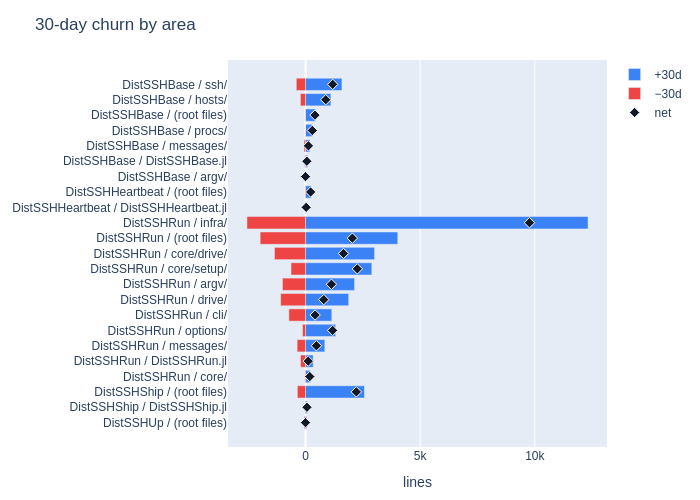
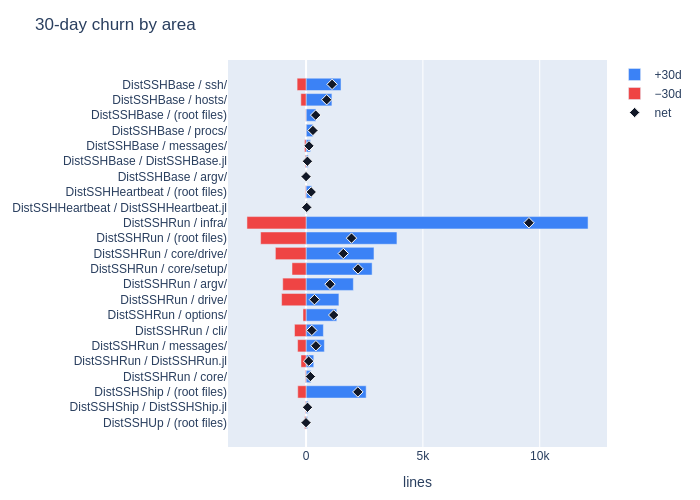
Render source churn.

diff --git a/churn/charts/churn-summary.html b/churn/charts/churn-summary.html
@@ -9,7 +9,7 @@
   <body style="margin:0;font-family:system-ui,sans-serif;">
   <div id="churn-summary" style="width:100%;min-height:90vh;"></div>
   <script>
-  const data = [{"type":"bar","name":"+30d","orientation":"h","y":["DistSSHBase / ssh/","DistSSHBase / hosts/","DistSSHBase / (root files)","DistSSHBase / procs/","DistSSHBase / messages/","DistSSHBase / DistSSHBase.jl","DistSSHBase / argv/","DistSSHHeartbeat / (root files)","DistSSHHeartbeat / DistSSHHeartbeat.jl","DistSSHRun / infra/","DistSSHRun / (root files)","DistSSHRun / core/drive/","DistSSHRun / core/setup/","DistSSHRun / argv/","DistSSHRun / drive/","DistSSHRun / cli/","DistSSHRun / options/","DistSSHRun / messages/","DistSSHRun / DistSSHRun.jl","DistSSHRun / core/","DistSSHShip / (root files)","DistSSHShip / DistSSHShip.jl","DistSSHUp / (root files)"],"marker":{"color":"#3b82f6"},"hovertemplate":"%{y}\u003cbr>+30d: %{x} lines\u003cextra>\u003c/extra>","x":[1588,1106,426,299,191,92,1,248,30,12322,4023,3011,2892,2138,1882,1146,1314,842,335,214,2572,89,59]},{"type":"bar","name":"−30d","orientation":"h","customdata":[403,223,14,5,65,34,1,25,2,2555,1980,1355,633,1007,1086,727,132,367,218,28,356,26,61],"y":["DistSSHBase / ssh/","DistSSHBase / hosts/","DistSSHBase / (root files)","DistSSHBase / procs/","DistSSHBase / messages/","DistSSHBase / DistSSHBase.jl","DistSSHBase / argv/","DistSSHHeartbeat / (root files)","DistSSHHeartbeat / DistSSHHeartbeat.jl","DistSSHRun / infra/","DistSSHRun / (root files)","DistSSHRun / core/drive/","DistSSHRun / core/setup/","DistSSHRun / argv/","DistSSHRun / drive/","DistSSHRun / cli/","DistSSHRun / options/","DistSSHRun / messages/","DistSSHRun / DistSSHRun.jl","DistSSHRun / core/","DistSSHShip / (root files)","DistSSHShip / DistSSHShip.jl","DistSSHUp / (root files)"],"marker":{"color":"#ef4444"},"hovertemplate":"%{y}\u003cbr>−30d: %{customdata} lines\u003cextra>\u003c/extra>","x":[-403,-223,-14,-5,-65,-34,-1,-25,-2,-2555,-1980,-1355,-633,-1007,-1086,-727,-132,-367,-218,-28,-356,-26,-61]},{"type":"scatter","name":"net","y":["DistSSHBase / ssh/","DistSSHBase / hosts/","DistSSHBase / (root files)","DistSSHBase / procs/","DistSSHBase / messages/","DistSSHBase / DistSSHBase.jl","DistSSHBase / argv/","DistSSHHeartbeat / (root files)","DistSSHHeartbeat / DistSSHHeartbeat.jl","DistSSHRun / infra/","DistSSHRun / (root files)","DistSSHRun / core/drive/","DistSSHRun / core/setup/","DistSSHRun / argv/","DistSSHRun / drive/","DistSSHRun / cli/","DistSSHRun / options/","DistSSHRun / messages/","DistSSHRun / DistSSHRun.jl","DistSSHRun / core/","DistSSHShip / (root files)","DistSSHShip / DistSSHShip.jl","DistSSHUp / (root files)"],"marker":{"line":{"width":1,"color":"#ffffff"},"size":8,"symbol":"diamond","color":"#111827"},"mode":"markers","hovertemplate":"%{y}\u003cbr>net: %{x} lines\u003cextra>\u003c/extra>","x":[1185,883,412,294,126,58,0,223,28,9767,2043,1656,2259,1131,796,419,1182,475,117,186,2216,63,-2]}];
+  const data = [{"type":"bar","name":"+30d","orientation":"h","y":["DistSSHBase / ssh/","DistSSHBase / hosts/","DistSSHBase / (root files)","DistSSHBase / procs/","DistSSHBase / messages/","DistSSHBase / DistSSHBase.jl","DistSSHBase / argv/","DistSSHHeartbeat / (root files)","DistSSHHeartbeat / DistSSHHeartbeat.jl","DistSSHRun / infra/","DistSSHRun / (root files)","DistSSHRun / core/drive/","DistSSHRun / core/setup/","DistSSHRun / argv/","DistSSHRun / drive/","DistSSHRun / options/","DistSSHRun / cli/","DistSSHRun / messages/","DistSSHRun / DistSSHRun.jl","DistSSHRun / core/","DistSSHShip / (root files)","DistSSHShip / DistSSHShip.jl","DistSSHUp / (root files)"],"marker":{"color":"#3b82f6"},"hovertemplate":"%{y}\u003cbr>+30d: %{x} lines\u003cextra>\u003c/extra>","x":[1496,1106,426,299,191,91,1,248,30,12069,3890,2907,2827,2024,1406,1314,741,783,329,214,2572,89,59]},{"type":"bar","name":"−30d","orientation":"h","customdata":[383,223,14,5,65,33,1,25,2,2530,1945,1313,602,999,1047,132,494,362,217,28,356,26,61],"y":["DistSSHBase / ssh/","DistSSHBase / hosts/","DistSSHBase / (root files)","DistSSHBase / procs/","DistSSHBase / messages/","DistSSHBase / DistSSHBase.jl","DistSSHBase / argv/","DistSSHHeartbeat / (root files)","DistSSHHeartbeat / DistSSHHeartbeat.jl","DistSSHRun / infra/","DistSSHRun / (root files)","DistSSHRun / core/drive/","DistSSHRun / core/setup/","DistSSHRun / argv/","DistSSHRun / drive/","DistSSHRun / options/","DistSSHRun / cli/","DistSSHRun / messages/","DistSSHRun / DistSSHRun.jl","DistSSHRun / core/","DistSSHShip / (root files)","DistSSHShip / DistSSHShip.jl","DistSSHUp / (root files)"],"marker":{"color":"#ef4444"},"hovertemplate":"%{y}\u003cbr>−30d: %{customdata} lines\u003cextra>\u003c/extra>","x":[-383,-223,-14,-5,-65,-33,-1,-25,-2,-2530,-1945,-1313,-602,-999,-1047,-132,-494,-362,-217,-28,-356,-26,-61]},{"type":"scatter","name":"net","y":["DistSSHBase / ssh/","DistSSHBase / hosts/","DistSSHBase / (root files)","DistSSHBase / procs/","DistSSHBase / messages/","DistSSHBase / DistSSHBase.jl","DistSSHBase / argv/","DistSSHHeartbeat / (root files)","DistSSHHeartbeat / DistSSHHeartbeat.jl","DistSSHRun / infra/","DistSSHRun / (root files)","DistSSHRun / core/drive/","DistSSHRun / core/setup/","DistSSHRun / argv/","DistSSHRun / drive/","DistSSHRun / options/","DistSSHRun / cli/","DistSSHRun / messages/","DistSSHRun / DistSSHRun.jl","DistSSHRun / core/","DistSSHShip / (root files)","DistSSHShip / DistSSHShip.jl","DistSSHUp / (root files)"],"marker":{"line":{"width":1,"color":"#ffffff"},"size":8,"symbol":"diamond","color":"#111827"},"mode":"markers","hovertemplate":"%{y}\u003cbr>net: %{x} lines\u003cextra>\u003c/extra>","x":[1113,883,412,294,126,58,0,223,28,9539,1945,1594,2225,1025,359,1182,247,421,112,186,2216,63,-2]}];
   const layout = {"barmode":"overlay","height":414,"margin":{"l":220},"title":{"text":"30-day churn by area"},"xaxis":{"title":"lines"},"yaxis":{"autorange":"reversed"}};
 const config = {responsive: true, displayModeBar: true};
 Plotly.newPlot("churn-summary", data, layout, config);

diff --git a/churn/charts/churn-heatmap.html b/churn/charts/churn-heatmap.html
@@ -9,7 +9,7 @@
   <body style="margin:0;font-family:system-ui,sans-serif;">
   <div id="churn-heatmap" style="width:100%;min-height:90vh;"></div>
   <script>
-  const data = [{"type":"heatmap","colorscale":"RdBu","y":["DistSSHBase / ssh/","DistSSHBase / hosts/","DistSSHBase / (root files)","DistSSHBase / procs/","DistSSHBase / messages/","DistSSHBase / DistSSHBase.jl","DistSSHBase / argv/","DistSSHHeartbeat / (root files)","DistSSHHeartbeat / DistSSHHeartbeat.jl","DistSSHRun / infra/","DistSSHRun / (root files)","DistSSHRun / core/drive/","DistSSHRun / core/setup/","DistSSHRun / argv/","DistSSHRun / drive/","DistSSHRun / cli/","DistSSHRun / options/","DistSSHRun / messages/","DistSSHRun / DistSSHRun.jl","DistSSHRun / core/","DistSSHShip / (root files)","DistSSHShip / DistSSHShip.jl","DistSSHUp / (root files)"],"zmid":0,"z":[[434.0,-2.0,235.0,508.0,10.0],[41.0,416.0,8.0,412.0,6.0],[0.0,0.0,5.0,224.0,183.0],[0.0,0.0,0.0,250.0,44.0],[0.0,60.0,1.0,65.0,0.0],[0.0,5.0,15.0,29.0,9.0],[0.0,0.0,0.0,0.0,0.0],[0.0,0.0,217.0,0.0,6.0],[0.0,0.0,28.0,0.0,0.0],[2737.0,803.0,2457.0,3202.0,568.0],[549.0,828.0,243.0,368.0,55.0],[966.0,100.0,31.0,550.0,9.0],[781.0,525.0,234.0,528.0,191.0],[183.0,154.0,292.0,484.0,18.0],[557.0,-92.0,27.0,296.0,8.0],[222.0,-31.0,89.0,139.0,0.0],[0.0,-9.0,140.0,869.0,182.0],[54.0,107.0,34.0,421.0,-141.0],[47.0,-13.0,20.0,36.0,27.0],[0.0,0.0,0.0,185.0,1.0],[0.0,0.0,1862.0,366.0,-12.0],[0.0,0.0,53.0,9.0,1.0],[2.0,-4.0,0.0,0.0,0.0]],"hovertemplate":"%{y}\u003cbr>week %{x}\u003cbr>net: %{z}\u003cextra>\u003c/extra>","x":["2026-10-26","2026-11-02","2026-11-09","2026-11-16","2026-11-23"]}];
+  const data = [{"type":"heatmap","colorscale":"RdBu","y":["DistSSHBase / ssh/","DistSSHBase / hosts/","DistSSHBase / (root files)","DistSSHBase / procs/","DistSSHBase / messages/","DistSSHBase / DistSSHBase.jl","DistSSHBase / argv/","DistSSHHeartbeat / (root files)","DistSSHHeartbeat / DistSSHHeartbeat.jl","DistSSHRun / infra/","DistSSHRun / (root files)","DistSSHRun / core/drive/","DistSSHRun / core/setup/","DistSSHRun / argv/","DistSSHRun / drive/","DistSSHRun / options/","DistSSHRun / cli/","DistSSHRun / messages/","DistSSHRun / DistSSHRun.jl","DistSSHRun / core/","DistSSHShip / (root files)","DistSSHShip / DistSSHShip.jl","DistSSHUp / (root files)"],"zmid":0,"z":[[362.0,-2.0,235.0,508.0,10.0],[41.0,416.0,8.0,412.0,6.0],[0.0,0.0,5.0,224.0,183.0],[0.0,0.0,0.0,250.0,44.0],[0.0,60.0,1.0,65.0,0.0],[0.0,5.0,15.0,29.0,9.0],[0.0,0.0,0.0,0.0,0.0],[0.0,0.0,217.0,0.0,6.0],[0.0,0.0,28.0,0.0,0.0],[2509.0,803.0,2457.0,3202.0,568.0],[451.0,828.0,243.0,368.0,55.0],[904.0,100.0,31.0,550.0,9.0],[747.0,525.0,234.0,528.0,191.0],[77.0,154.0,292.0,484.0,18.0],[120.0,-92.0,27.0,296.0,8.0],[0.0,-9.0,140.0,869.0,182.0],[50.0,-31.0,89.0,139.0,0.0],[0.0,107.0,34.0,421.0,-141.0],[42.0,-13.0,20.0,36.0,27.0],[0.0,0.0,0.0,185.0,1.0],[0.0,0.0,1862.0,366.0,-12.0],[0.0,0.0,53.0,9.0,1.0],[2.0,-4.0,0.0,0.0,0.0]],"hovertemplate":"%{y}\u003cbr>week %{x}\u003cbr>net: %{z}\u003cextra>\u003c/extra>","x":["2026-10-26","2026-11-02","2026-11-09","2026-11-16","2026-11-23"]}];
   const layout = {"height":368,"margin":{"l":220},"title":{"text":"Weekly net churn heatmap"}};
 const config = {responsive: true, displayModeBar: true};
 Plotly.newPlot("churn-heatmap", data, layout, config);

diff --git a/churn/charts/churn-weekly.html b/churn/charts/churn-weekly.html
@@ -9,7 +9,7 @@
   <body style="margin:0;font-family:system-ui,sans-serif;">
   <div id="churn-weekly" style="width:100%;min-height:90vh;"></div>
   <script>
-  const data = [{"type":"bar","name":"+","y":[7927,4496,9512,11997,2888],"marker":{"color":"#3b82f6"},"hovertemplate":"week %{x}\u003cbr>added: %{y}\u003cextra>\u003c/extra>","x":["2026-10-26","2026-11-02","2026-11-09","2026-11-16","2026-11-23"]},{"type":"bar","name":"−","customdata":[1354,1649,3521,3056,1723],"y":[-1354,-1649,-3521,-3056,-1723],"marker":{"color":"#ef4444"},"hovertemplate":"week %{x}\u003cbr>removed: %{customdata}\u003cextra>\u003c/extra>","x":["2026-10-26","2026-11-02","2026-11-09","2026-11-16","2026-11-23"]},{"line":{"color":"#111827"},"type":"scatter","name":"net","y":[6573,2847,5991,8941,1165],"mode":"markers+lines","hovertemplate":"week %{x}\u003cbr>net: %{y}\u003cextra>\u003c/extra>","x":["2026-10-26","2026-11-02","2026-11-09","2026-11-16","2026-11-23"]}];
+  const data = [{"type":"bar","name":"+","y":[6219,4496,9512,11997,2888],"marker":{"color":"#3b82f6"},"hovertemplate":"week %{x}\u003cbr>added: %{y}\u003cextra>\u003c/extra>","x":["2026-10-26","2026-11-02","2026-11-09","2026-11-16","2026-11-23"]},{"type":"bar","name":"−","customdata":[914,1649,3521,3056,1723],"y":[-914,-1649,-3521,-3056,-1723],"marker":{"color":"#ef4444"},"hovertemplate":"week %{x}\u003cbr>removed: %{customdata}\u003cextra>\u003c/extra>","x":["2026-10-26","2026-11-02","2026-11-09","2026-11-16","2026-11-23"]},{"line":{"color":"#111827"},"type":"scatter","name":"net","y":[5305,2847,5991,8941,1165],"mode":"markers+lines","hovertemplate":"week %{x}\u003cbr>net: %{y}\u003cextra>\u003c/extra>","x":["2026-10-26","2026-11-02","2026-11-09","2026-11-16","2026-11-23"]}];
   const layout = {"barmode":"relative","height":420,"title":{"text":"Weekly churn (all areas)"},"xaxis":{"title":"week start (JST)"},"yaxis":{"title":"lines"}};
 const config = {responsive: true, displayModeBar: true};
 Plotly.newPlot("churn-weekly", data, layout, config);

diff --git a/churn/report.md b/churn/report.md
@@ -1,7 +1,7 @@
 ## Source churn
 
 Lines are non-blank `*.jl` under `src/` and `lib/*/src/`, grouped by package and area.
-Columns use git history through `dce65d1` as of 2026-11-26 (JST).
+Columns use git history through `dce65d1` as of 2026-11-27 (JST).
 Areas list only directories that hold at least one `*.jl` directly and show any 7d or 30d added/deleted lines.
 
 **(root files)** lists `.jl` files sitting directly in a package `src/` directory, not in a subfolder.
@@ -17,12 +17,12 @@ Interactive charts (hover for values): [summary](charts/churn-summary.html) · [
 ### DistSSHBase
 | area | files | LOC | +7d | −7d | net7 | +30d | −30d | net30 | %≥30d old | last touch |
 | --- | ---: | ---: | ---: | ---: | ---: | ---: | ---: | ---: | ---: | --- |
-| ssh/ | 9 | 2269 | 618 | 170 | 448 | 1588 | 403 | 1185 | 46.8 | 2026-11-24 |
-| hosts/ | 6 | 1097 | 148 | 59 | 89 | 1106 | 223 | 883 | 18.9 | 2026-11-24 |
+| ssh/ | 9 | 2269 | 336 | 159 | 177 | 1496 | 383 | 1113 | 59.4 | 2026-11-24 |
+| hosts/ | 6 | 1097 | 19 | 13 | 6 | 1106 | 223 | 883 | 21.8 | 2026-11-24 |
 | (root files) | 7 | 453 | 324 | 6 | 318 | 426 | 14 | 412 | 15.6 | 2026-11-24 |
 | procs/ | 3 | 275 | 299 | 5 | 294 | 299 | 5 | 294 | 0.0 | 2026-11-24 |
 | messages/ | 4 | 403 | 30 | 4 | 26 | 191 | 65 | 126 | 61.9 | 2026-11-22 |
-| DistSSHBase.jl | 1 | 91 | 26 | 2 | 24 | 92 | 34 | 58 | 23.5 | 2026-11-24 |
+| DistSSHBase.jl | 1 | 91 | 23 | 1 | 22 | 91 | 33 | 58 | 24.5 | 2026-11-24 |
 | argv/ | 1 | 31 | 0 | 0 | 0 | 1 | 1 | 0 | 97.4 | 2026-11-08 |
 
 *(root files)*: cli.jl, component_id.jl, component_src.jl, env.jl, namespace.jl, record_writer.jl, tool_require.jl.
@@ -38,24 +38,24 @@ Interactive charts (hover for values): [summary](charts/churn-summary.html) · [
 ### DistSSHRun
 | area | files | LOC | +7d | −7d | net7 | +30d | −30d | net30 | %≥30d old | last touch |
 | --- | ---: | ---: | ---: | ---: | ---: | ---: | ---: | ---: | ---: | --- |
-| infra/ | 26 | 10482 | 1675 | 573 | 1102 | 12322 | 2555 | 9767 | 12.8 | 2026-11-24 |
-| (root files) | 11 | 5555 | 730 | 670 | 60 | 4023 | 1980 | 2043 | 50.9 | 2026-11-24 |
-| core/drive/ | 12 | 3450 | 549 | 282 | 267 | 3011 | 1355 | 1656 | 42.1 | 2026-11-24 |
-| core/setup/ | 10 | 4358 | 558 | 162 | 396 | 2892 | 633 | 2259 | 44.3 | 2026-11-24 |
-| argv/ | 8 | 2525 | 210 | 137 | 73 | 2138 | 1007 | 1131 | 43.6 | 2026-11-24 |
-| drive/ | 7 | 2160 | 550 | 309 | 241 | 1882 | 1086 | 796 | 64.4 | 2026-11-23 |
-| cli/ | 15 | 1157 | 41 | 40 | 1 | 1146 | 727 | 419 | 59.9 | 2026-11-24 |
+| infra/ | 26 | 10482 | 1634 | 561 | 1073 | 12069 | 2530 | 9539 | 17.8 | 2026-11-24 |
+| (root files) | 11 | 5555 | 664 | 655 | 9 | 3890 | 1945 | 1945 | 52.3 | 2026-11-24 |
+| core/drive/ | 12 | 3450 | 527 | 272 | 255 | 2907 | 1313 | 1594 | 60.3 | 2026-11-24 |
+| core/setup/ | 10 | 4358 | 558 | 162 | 396 | 2827 | 602 | 2225 | 52.8 | 2026-11-24 |
+| argv/ | 8 | 2525 | 210 | 137 | 73 | 2024 | 999 | 1025 | 43.8 | 2026-11-24 |
+| drive/ | 7 | 2160 | 550 | 309 | 241 | 1406 | 1047 | 359 | 64.7 | 2026-11-23 |
 | options/ | 9 | 1206 | 316 | 50 | 266 | 1314 | 132 | 1182 | 6.3 | 2026-11-23 |
-| messages/ | 3 | 2632 | 139 | 226 | -87 | 842 | 367 | 475 | 76.2 | 2026-11-24 |
-| DistSSHRun.jl | 1 | 560 | 79 | 51 | 28 | 335 | 218 | 117 | 61.8 | 2026-11-24 |
-| core/ | 1 | 172 | 48 | 28 | 20 | 214 | 28 | 186 | 0.0 | 2026-11-23 |
+| cli/ | 15 | 1157 | 41 | 40 | 1 | 741 | 494 | 247 | 61.2 | 2026-11-24 |
+| messages/ | 3 | 2632 | 139 | 226 | -87 | 783 | 362 | 421 | 76.2 | 2026-11-24 |
+| DistSSHRun.jl | 1 | 560 | 78 | 50 | 28 | 329 | 217 | 112 | 66.3 | 2026-11-24 |
+| core/ | 1 | 172 | 47 | 27 | 20 | 214 | 28 | 186 | 0.0 | 2026-11-23 |
 
 *(root files)*: DistSSHRun/drive.jl, DistSSHRun/execute.jl, DistSSHRun/execute_envelope.jl, DistSSHRun/go.jl, DistSSHRun/heartbeat_module.jl, DistSSHRun/hostinfo.jl, DistSSHRun/pool.jl, DistSSHRun/provenance.jl, DistSSHRun/setup.jl, DistSSHRun/ship_module.jl, DistSSHRun/up_module.jl.
 
 ### DistSSHShip
 | area | files | LOC | +7d | −7d | net7 | +30d | −30d | net30 | %≥30d old | last touch |
 | --- | ---: | ---: | ---: | ---: | ---: | ---: | ---: | ---: | ---: | --- |
-| (root files) | 8 | 2075 | 121 | 39 | 82 | 2572 | 356 | 2216 | 0.0 | 2026-11-24 |
+| (root files) | 8 | 2075 | 119 | 32 | 87 | 2572 | 356 | 2216 | 0.0 | 2026-11-24 |
 | DistSSHShip.jl | 1 | 56 | 1 | 0 | 1 | 89 | 26 | 63 | 0.0 | 2026-11-24 |
 
 *(root files)*: contain.jl, deps.jl, pack.jl, project.jl, record.jl, select.jl, ship.jl, tree_manifest.jl.
@@ -63,7 +63,7 @@ Interactive charts (hover for values): [summary](charts/churn-summary.html) · [
 ### DistSSHUp
 | area | files | LOC | +7d | −7d | net7 | +30d | −30d | net30 | %≥30d old | last touch |
 | --- | ---: | ---: | ---: | ---: | ---: | ---: | ---: | ---: | ---: | --- |
-| (root files) | 6 | 602 | 0 | 0 | 0 | 59 | 61 | -2 | 91.3 | 2026-11-07 |
+| (root files) | 6 | 602 | 0 | 0 | 0 | 59 | 61 | -2 | 92.9 | 2026-11-07 |
 
 *(root files)*: body.jl, hosts.jl, local.jl, remote.jl, status.jl, version.jl.
 
@@ -76,19 +76,19 @@ Paths with churn in the window but no file at HEAD.
 | DistSSHSize | `lib/DistSSHSize/src/body.jl` | 12 | 12 | 2026-11-08 |
 | DistSSHSize | `lib/DistSSHSize/src/compute_worker_plan.jl` | 45 | 45 | 2026-11-08 |
 | DistSSHSize | `lib/DistSSHSize/src/worker_plan.jl` | 114 | 114 | 2026-11-08 |
-| DistSSHRun | `src/DistSSHRun/argv/plan_args.jl` | 9 | 138 | 2026-11-06 |
+| DistSSHRun | `src/DistSSHRun/argv/plan_args.jl` | 1 | 136 | 2026-11-06 |
 | DistSSHRun | `src/DistSSHRun/argv/ride_args.jl` | 117 | 273 | 2026-11-21 |
-| DistSSHRun | `src/DistSSHRun/argv/size_args.jl` | 14 | 150 | 2026-11-08 |
+| DistSSHRun | `src/DistSSHRun/argv/size_args.jl` | 0 | 148 | 2026-11-08 |
 | DistSSHRun | `src/DistSSHRun/argv/size_report.jl` | 0 | 134 | 2026-11-08 |
 | DistSSHRun | `src/DistSSHRun/drive/runtime/heartbeat.jl` | 0 | 49 | 2026-11-09 |
 | DistSSHRun | `src/DistSSHRun/drive/size.jl` | 1 | 113 | 2026-11-08 |
 | DistSSHRun | `src/DistSSHRun/infra/script_scan.jl` | 315 | 315 | 2026-11-21 |
-| DistSSHRun | `src/DistSSHRun/plan.jl` | 220 | 684 | 2026-11-06 |
+| DistSSHRun | `src/DistSSHRun/plan.jl` | 201 | 683 | 2026-11-06 |
 | DistSSHRun | `src/DistSSHRun/ride.jl` | 384 | 1147 | 2026-11-21 |
 | DistSSHRun | `src/DistSSHRun/size/measure.jl` | 15 | 253 | 2026-11-08 |
 | DistSSHRun | `src/DistSSHRun/size_module.jl` | 18 | 18 | 2026-11-08 |
-| DistSSHRun | `src/cli/plan.jl` | 17 | 73 | 2026-11-06 |
+| DistSSHRun | `src/cli/plan.jl` | 0 | 68 | 2026-11-06 |
 | DistSSHRun | `src/cli/plan/_using.jl` | 0 | 6 | 2026-11-06 |
-| DistSSHRun | `src/cli/ride.jl` | 113 | 176 | 2026-11-21 |
+| DistSSHRun | `src/cli/ride.jl` | 104 | 172 | 2026-11-21 |
 | DistSSHRun | `src/cli/ride/_using.jl` | 0 | 9 | 2026-11-21 |
 | DistSSHRun | `src/cli/size/_using.jl` | 0 | 9 | 2026-11-08 |
